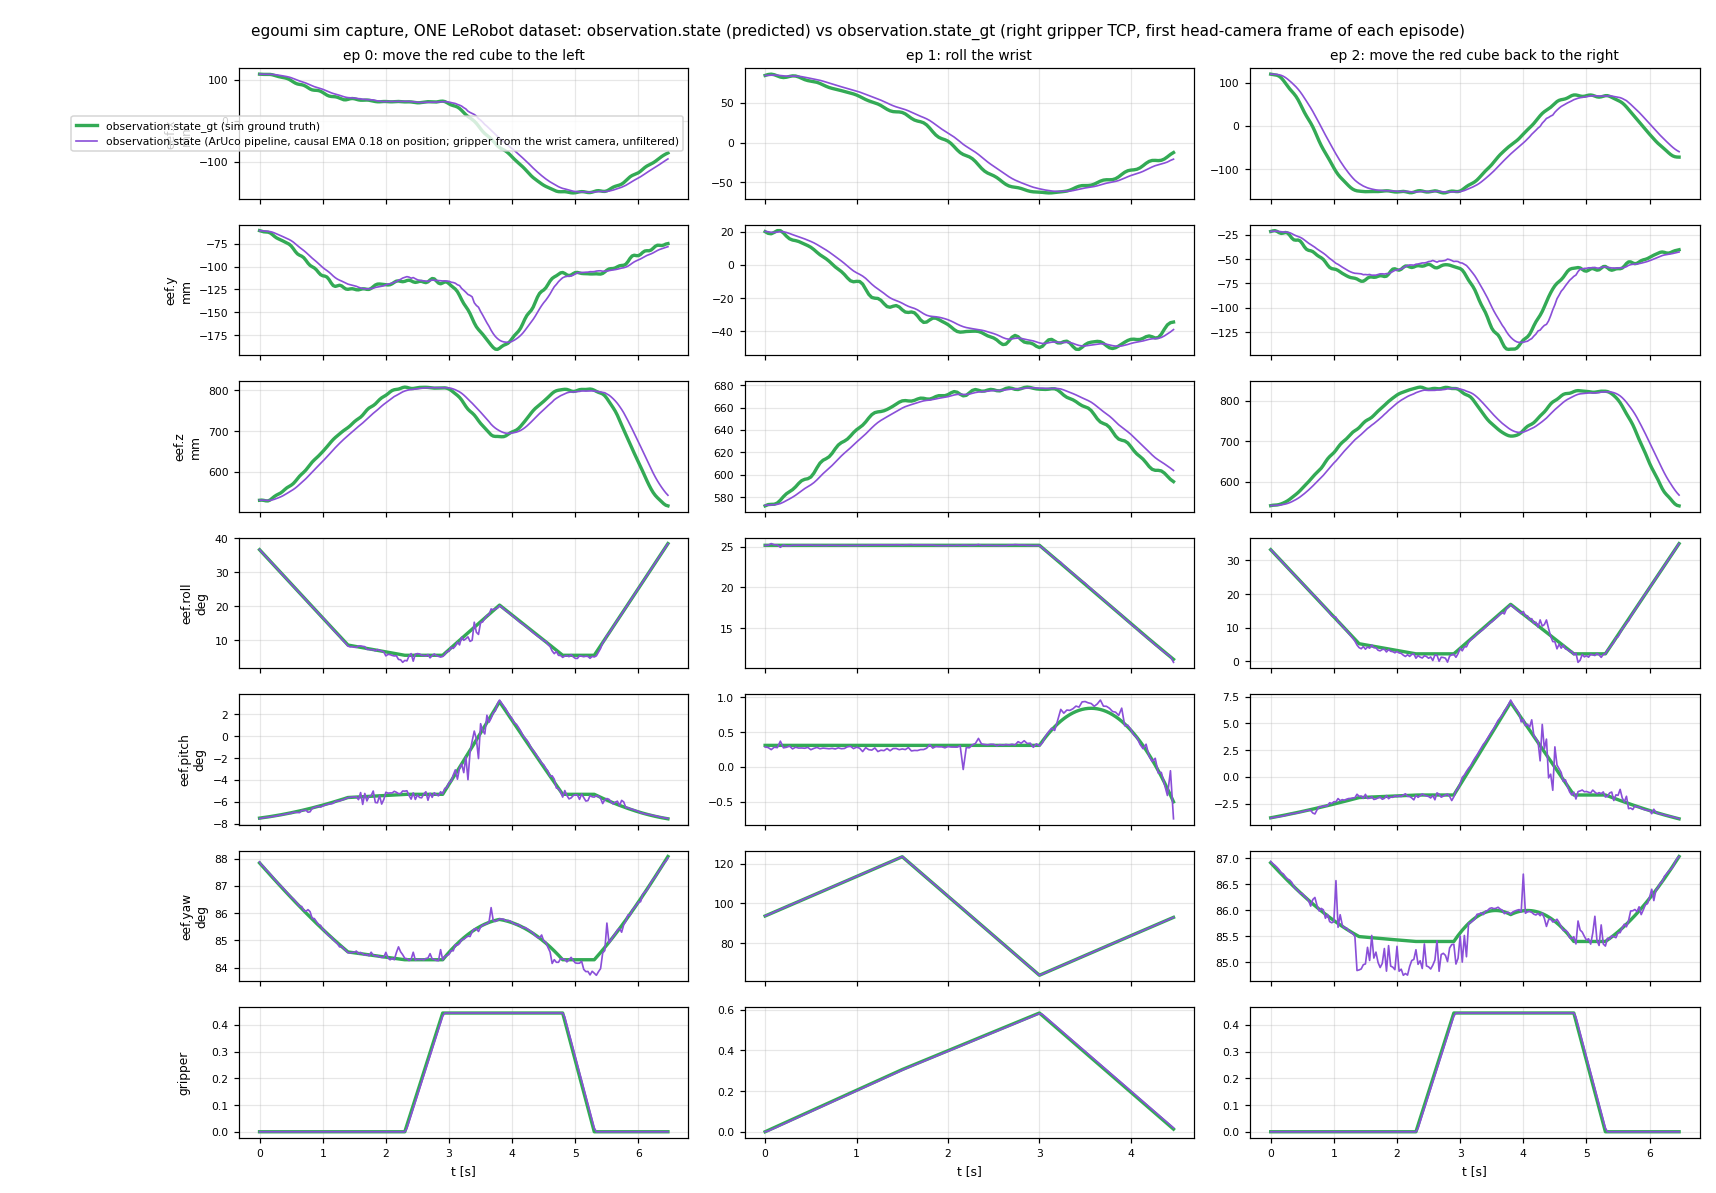
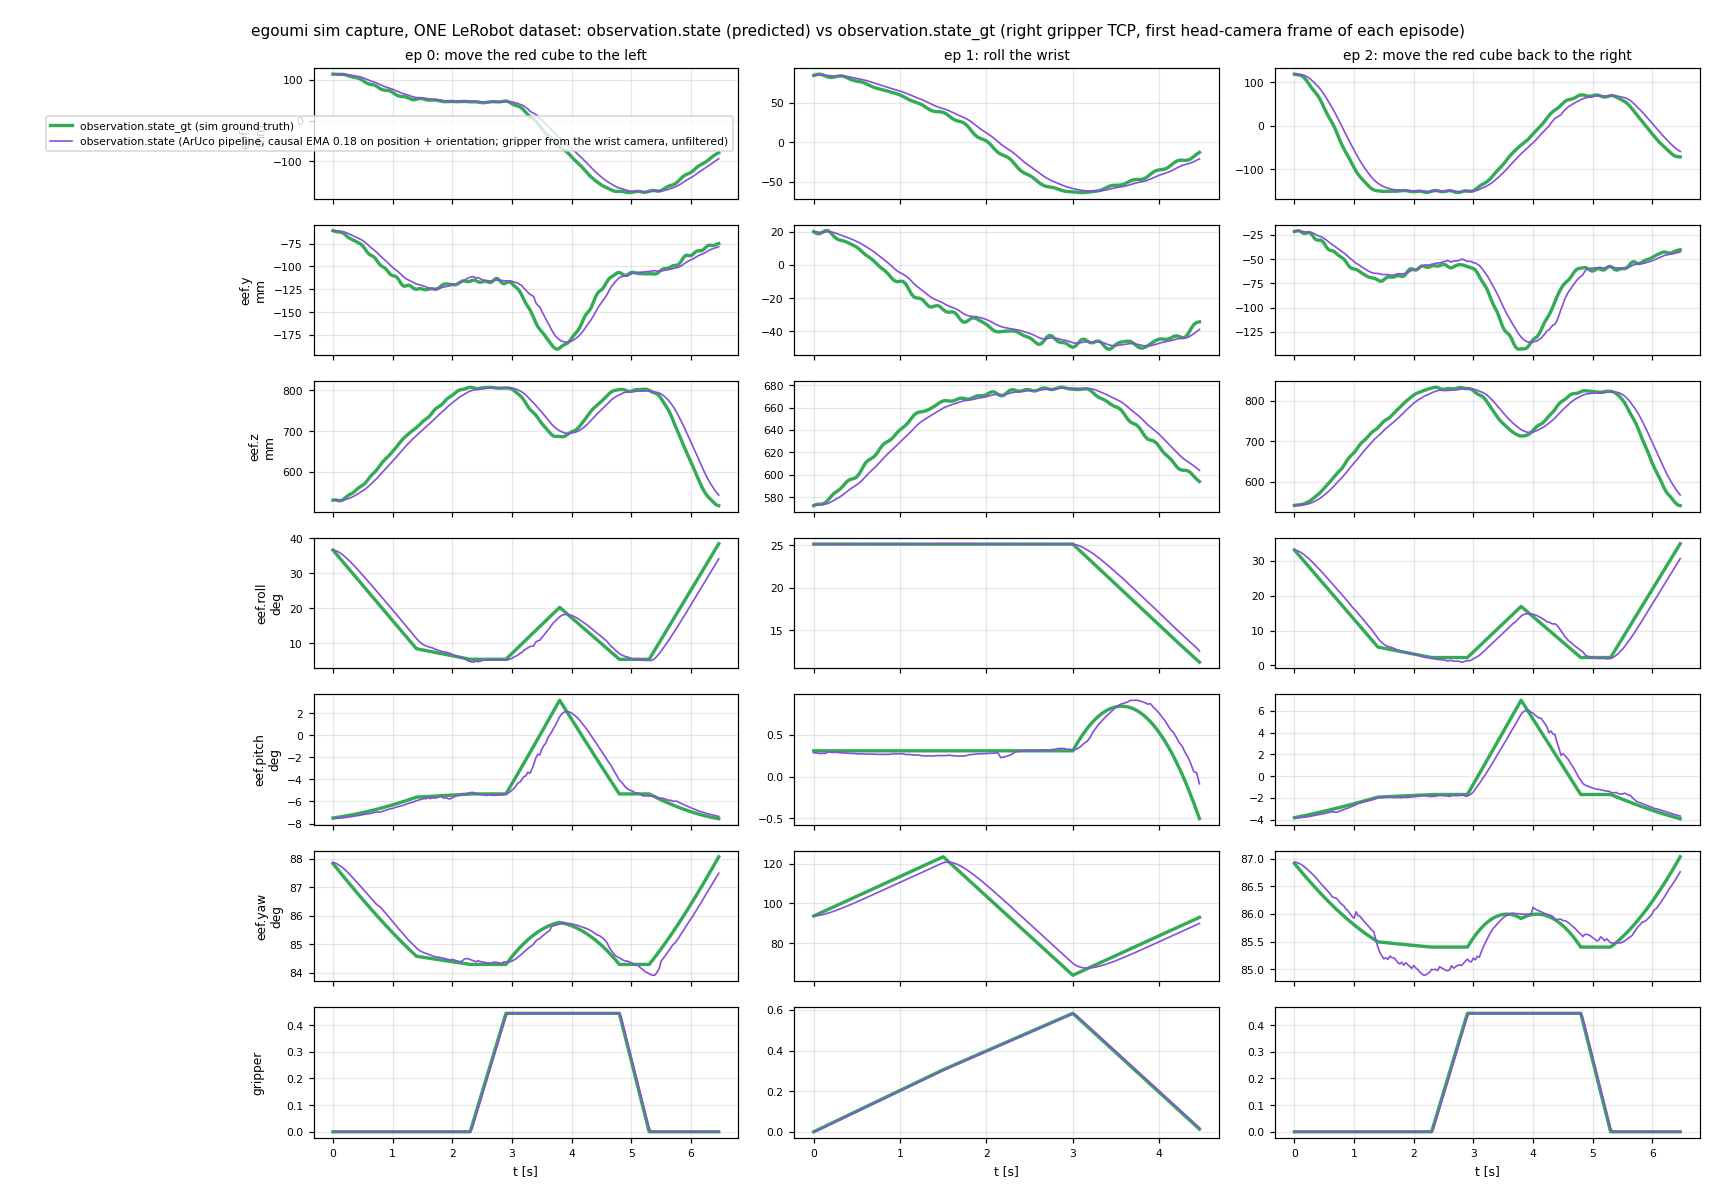
EMA on the predicted orientation too, filtered on SO(3)
--state-source aruco now also smooths orientation: a causal EMA on rotations
(R_f[t] = R_f[t-1] exp(alpha log(R_f[t-1]^T R[t])), i.e. geodesic slerp toward each
new rotation) applied before conversion to Euler angles, so the +-pi wrap cannot
break it (through 180 deg yaw the largest step stays 1.0 deg; component-wise Euler
smoothing jumps 63.8 deg). --ema-rot defaults to --ema-pos (0.18), so the whole
pose carries one 152 ms lag; on a single axis it equals the scalar EMA to 1e-14 deg.

Sim capture: one-step orientation delta noise 0.76 -> 0.11 deg, worst-case noise
4.0 -> 1.6 deg, at 2.9 deg median lag error vs raw ground truth. Ground-truth
columns stay unfiltered.

Claude-Session: https://claude.ai/code/session_01FkAWs4Q1AoWhnSK5J9cY5U

diff --git a/collection/state_sources.py b/collection/state_sources.py
@@ -118,6 +118,22 @@ def ema(x: np.ndarray, alpha: float) -> np.ndarray:
     return y
 
 
+def ema_rot(Rs: np.ndarray, alpha: float) -> np.ndarray:
+    """Causal EMA on rotations (N, 3, 3), done on SO(3) so Euler wraps cannot break it:
+    R_f[0] = R[0]; R_f[t] = R_f[t-1] * exp(alpha * log(R_f[t-1]^T R[t])), i.e. move alpha of the way (geodesic slerp)
+    from the previous filtered rotation toward the new one. Same lag as ema() at the same alpha."""
+    from scipy.spatial.transform import Rotation as R
+    Rs = np.asarray(Rs, np.float64)
+    if alpha >= 1.0 or len(Rs) < 2:
+        return Rs.copy()
+    out = np.empty_like(Rs)
+    out[0] = Rs[0]
+    for t in range(1, len(Rs)):
+        step = R.from_matrix(out[t - 1].T @ Rs[t]).as_rotvec() * alpha
+        out[t] = out[t - 1] @ R.from_rotvec(step).as_matrix()
+    return out
+
+
 def _repo_imports():
     import os, sys
     root = os.path.dirname(os.path.dirname(os.path.abspath(__file__)))
@@ -200,7 +216,7 @@ class ArucoSource(_GripperBase):
     name = "aruco"
 
     def __init__(self, cut_sheet=None, sim_gt=None, camera=None, markers=None, cam_motion="sim_gt",
-                 max_gap=5, ema_pos=0.18, ema_grip=1.0, **kw):
+                 max_gap=5, ema_pos=0.18, ema_grip=1.0, ema_rot=None, **kw):
         super().__init__(cut_sheet=cut_sheet, sim_gt=sim_gt)
         _repo_imports()
         import yaml
@@ -229,6 +245,8 @@ class ArucoSource(_GripperBase):
         # position 0.18 (h2r kitting used 0.164 for HaWoR); the wrist-camera gripper is clean, so no gripper EMA
         self.ema_pos = 1.0 if ema_pos is None else float(ema_pos)
         self.ema_grip = 1.0 if ema_grip is None else float(ema_grip)
+        # orientation: same alpha as position by default, so the whole pose carries one lag
+        self.ema_rot = self.ema_pos if ema_rot is None else float(ema_rot)
 
     def compute(self, episode, n: int, fps: float):
         import cv2
@@ -309,15 +327,21 @@ class ArucoSource(_GripperBase):
                                       "vs_gt_pos_mm_p90": round(float(np.percentile(e[:, 0], 90) * 1000), 2),
                                       "vs_gt_rot_deg_median": round(float(np.median(e[:, 1])), 3),
                                       "vs_gt_pos_mm_max": round(float(e[:, 0].max() * 1000), 2)})
-        state = _pose_rows(T_c0_tcp, grip)
-        # causal EMA on the PREDICTED position + gripper only (orientation wraps at +-pi; the GT tags stay raw)
+        # causal EMA on the PREDICTED pose (the GT tags stay raw): orientation on SO(3) before it becomes Euler angles,
+        # position and gripper per component
+        T_f = T_c0_tcp.copy()
+        T_f[:, :3, :3] = ema_rot(T_c0_tcp[:, :3, :3], self.ema_rot)
+        state = _pose_rows(T_f, grip)
         state[:, 6:9] = ema(state[:, 6:9], self.ema_pos)
         state[:, 13] = ema(state[:, 13], self.ema_grip)
         if self._gt is not None:
             e2 = np.linalg.norm(state[:, 6:9] - gt_state[:, 6:9], axis=1) * 1000
+            r2 = np.array([pose_error(a, b)[1] for a, b in zip(T_f, G)])
             self.episode_info.update({"vs_gt_pos_mm_median_after_ema": round(float(np.median(e2)), 2),
                                       "vs_gt_pos_mm_p90_after_ema": round(float(np.percentile(e2, 90)), 2),
-                                      "vs_gt_pos_mm_max_after_ema": round(float(e2.max()), 2)})
+                                      "vs_gt_pos_mm_max_after_ema": round(float(e2.max()), 2),
+                                      "vs_gt_rot_deg_median_after_ema": round(float(np.median(r2)), 3),
+                                      "vs_gt_rot_deg_max_after_ema": round(float(r2.max()), 3)})
         return state, derive_action_from_state(state)
 
     @property
@@ -327,7 +351,10 @@ class ArucoSource(_GripperBase):
     def info(self) -> Dict:
         return {"state_source": self.name, "state_placeholder": False, "state_layout": H2R_14D_LAYOUT,
                 "camera_motion": self.cam_motion,
-                "ema": {"position_alpha": self.ema_pos, "gripper_alpha": self.ema_grip, "orientation": "not filtered",
+                "ema": {"position_alpha": self.ema_pos, "gripper_alpha": self.ema_grip,
+                        "orientation_alpha": self.ema_rot,
+                        "orientation": "filtered on SO(3) (geodesic slerp toward each new rotation), before conversion "
+                                       "to Euler angles, so the +-pi wrap cannot break it",
                         "applies_to": "observation.state / action only (ground-truth columns are raw)",
                         "lag_frames_position": round((1 - self.ema_pos) / self.ema_pos, 2) if self.ema_pos < 1 else 0.0,
                         "note": "causal, reset per episode; the filtered state lags the unshifted videos. Inference must "

diff --git a/collection/convert_to_lerobot.py b/collection/convert_to_lerobot.py
@@ -104,6 +104,9 @@ def main(argv=None) -> int:
     p.add_argument("--ema-grip", type=float, default=1.0,
                    help="aruco: causal EMA alpha on the predicted gripper value (default 1.0 = off: the wrist-camera "
                         "width is already clean; h2r_collection used 0.3 for MANO)")
+    p.add_argument("--ema-rot", type=float, default=None,
+                   help="aruco: causal EMA alpha on the predicted orientation, applied on SO(3) (default: same as "
+                        "--ema-pos, so the whole pose has one lag; 1.0 = off)")
     p.add_argument("--fps", default="auto",
                    help="dataset + video fps; auto = the head clips' own rate (default; v30 needs an integer)")
     p.add_argument("--image-size", default="1280x720", help="WxH of the encoded camera streams")
@@ -121,7 +124,7 @@ def main(argv=None) -> int:
     size = parse_size(args.image_size)
     source = get_source(args.state_source, cut_sheet=cut_sheet, sim_gt=args.sim_gt, camera=args.camera,
                         markers=args.markers, cam_motion=args.cam_motion, ema_pos=args.ema_pos,
-                        ema_grip=args.ema_grip)
+                        ema_grip=args.ema_grip, ema_rot=args.ema_rot)
     session_id = args.session_id or cut_sheet.parent.name
 
     episodes = load_episodes(cut_sheet, clips_dir)

diff --git a/collection/run_pipeline.py b/collection/run_pipeline.py
@@ -64,6 +64,7 @@ def main(argv=None) -> int:
     p.add_argument("--markers", help="passed to the converter (marker layout)")
     p.add_argument("--ema-pos", help="passed to the converter (aruco position EMA alpha, default 0.18)")
     p.add_argument("--ema-grip", help="passed to the converter (aruco gripper EMA alpha, default 1.0 = off)")
+    p.add_argument("--ema-rot", help="passed to the converter (aruco orientation EMA alpha, default = --ema-pos)")
     p.add_argument("--fps", default="auto", help="auto = the head clips' own rate")
     p.add_argument("--image-size", default="1280x720")
     p.add_argument("--skip-tag", action="store_true", help="reuse the existing cut sheet + clips")
@@ -117,7 +118,7 @@ def main(argv=None) -> int:
            "--state-source", args.state_source, "--fps", str(args.fps), "--image-size", args.image_size]
     if args.overwrite:
         cmd.append("--overwrite")
-    for flag in ("sim_gt", "camera", "markers", "ema_pos", "ema_grip"):
+    for flag in ("sim_gt", "camera", "markers", "ema_pos", "ema_grip", "ema_rot"):
         if getattr(args, flag):
             cmd += [f"--{flag.replace('_', '-')}", getattr(args, flag)]
     print(f"[stage 2] converter -> {' '.join(cmd)}")

diff --git a/collection/README.md b/collection/README.md
@@ -48,7 +48,7 @@ Camera keys: `observation.images.{head,wrist_left,wrist_right}` (identical to h2
 |---|---|---|
 | `none` (default) | absent: video-only dataset | viewing, visual pre-training, checking cuts and sync |
 | `zeros` | 14-d zeros in the h2r_collection layout (`left/right.eef.{x,y,z,roll,pitch,yaw}`, `left/right.gripper`), `info.json → egoumi.state_placeholder: true` | smoke-testing training code only; **never train on it** |
-| `aruco` | right gripper TCP pose reconstructed from the **head clips** with the ArUco pipeline (`umi_pipe.pose`); `right.gripper` from the jaw tags seen by the **gripper (wrist) camera** (head-camera jaw sightings as a fallback), interpolated across frames without one; left arm zero. Causal EMA α 0.18 on position (`--ema-pos`), none on the gripper (`--ema-grip 1.0`), orientation unfiltered; see below for how α was chosen. Head-camera motion comes from `--cam-motion` (only `sim_gt` for now: SLAM is not wired). With `--sim-gt` the same dataset also gets **`observation.state_gt` / `action_gt`**, the ground truth in the same frame and layout | testing reconstruction against ground truth; real captures once SLAM is in |
+| `aruco` | right gripper TCP pose reconstructed from the **head clips** with the ArUco pipeline (`umi_pipe.pose`); `right.gripper` from the jaw tags seen by the **gripper (wrist) camera** (head-camera jaw sightings as a fallback), interpolated across frames without one; left arm zero. Causal EMA α 0.18 on position (`--ema-pos`) and on orientation (`--ema-rot`, filtered on SO(3) so the ±π wrap cannot break it; defaults to the position α so the whole pose has one lag), none on the gripper (`--ema-grip 1.0`); see below for how α was chosen. Head-camera motion comes from `--cam-motion` (only `sim_gt` for now: SLAM is not wired). With `--sim-gt` the same dataset also gets **`observation.state_gt` / `action_gt`**, the ground truth in the same frame and layout | testing reconstruction against ground truth; real captures once SLAM is in |
 | `sim_gt` | the sim ground truth only (`sim/render_capture.py` sessions) | testing the trajectory plumbing |
 
 - Episode length = the shortest camera clip at `--fps` (floor), so every camera has exactly one frame per row.
@@ -113,6 +113,14 @@ h2r_collection's converter. `convert_to_lerobot.py`, `state_sources.py` and `run
   | 0.2 | 133 ms | 0.72 mm | 14.9 mm |
   | **0.18 (default)** | **152 ms** | **0.65 mm** | **16.5 mm** |
   | 0.164 (h2r kitting) | 170 ms | 0.59 mm | 18.4 mm |
+
+  Orientation uses the same α (one lag for the whole pose), filtered on SO(3):
+
+  | orientation α | lag | 1-step delta noise | noise vs equally filtered GT, median / max | error vs raw GT, median |
+  |---|---|---|---|---|
+  | 1.0 (off) | 0 ms | 0.76° | 0.21 / 4.0° | 0.21° |
+  | 0.3 | 78 ms | 0.19° | 0.15 / 2.1° | 1.5° |
+  | **0.18 (default)** | **152 ms** | **0.11°** | **0.15 / 1.6°** | **2.9°** |
 
   The EMA does little for the per-frame error itself: that is slow bias from single-tag stretches, not jitter. The
   gripper needs no EMA: the wrist-camera width is already clean (median error 0.00 mm), and α 0.3 would only add lag

diff --git a/README.md b/README.md
@@ -33,7 +33,7 @@ the default `--style debug` overlays the estimate on the frame with per-tag deta
 | `umi_pipe/` + `scripts/gripper_pose.py`: subpixel ArUco → multi-tag PnP (SQPNP + LM, outlier rejection, single-tag disambiguation) → joint body + jaw refinement → jaw width → world TCP pose | working in sim |
 | `scripts/preview_gripper.py`: the preview above, the gripper counterpart of HaWoR's MANO cam/world visualisation; also runs on real sequences without ground truth | working |
 | `collection/`: 3-camera capture (head + 2 gripper/wrist cams) → audio sync → browser tagger → frame-exact clips → LeRobot v3.0 / v2.1, the h2r_collection flow without HaWoR ([details](collection/README.md)) | working: tested on the h2r_collection Sample session and on a rendered capture |
-| Trajectories in the dataset: `--state-source aruco` reconstructs the gripper TCP from the head clips (14-d h2r_collection layout); with sim ground truth the same dataset also gets `observation.state_gt` / `action_gt` | working in sim: gripper value from the gripper (wrist) camera on 100 % of frames; causal EMA α 0.18 on predicted position (chosen by the h2r delta-noise criterion, `sim/ema_sweep.py`); head-camera motion still comes from the sim (SLAM not wired) |
+| Trajectories in the dataset: `--state-source aruco` reconstructs the gripper TCP from the head clips (14-d h2r_collection layout); with sim ground truth the same dataset also gets `observation.state_gt` / `action_gt` | working in sim: gripper value from the gripper (wrist) camera on 100 % of frames; causal EMA α 0.18 on the predicted pose, position and orientation (chosen by the h2r delta-noise criterion, `sim/ema_sweep.py`); head-camera motion still comes from the sim (SLAM not wired) |
 | `sim/render_capture.py`: rendered raw capture (head camera, gripper GoPro, blank second wrist feed, skewed clocks, clap soundtrack) + `sim/check_capture_sync.py` (sync and cut accuracy against ground truth) | working |
 | HaWoR SLAM for head-camera motion, camera calibration, real captures | planned |
 
@@ -54,7 +54,7 @@ clocks; the audio sync recovered the offsets exactly and every cut is frame-exac
 *The same dataset's trajectory columns: `observation.state` reconstructed by the ArUco pipeline (purple) against
 the raw `observation.state_gt` (green). Right gripper TCP in each episode's first head-camera frame; the head-camera
 motion here comes from the sim. The gripper value comes from the wrist camera (within about 1 mm of jaw width). The
-position carries a causal EMA (α 0.18, 152 ms lag), which brings the one-step delta noise to the G1 robot's level;
+pose carries a causal EMA (α 0.18 on position and on orientation, 152 ms lag), which brings the one-step delta noise to the G1 robot's level;
 the lag is what separates the purple and green position curves (`--ema-pos 1` turns it off).*
 
 ## Quick start (simulation)
